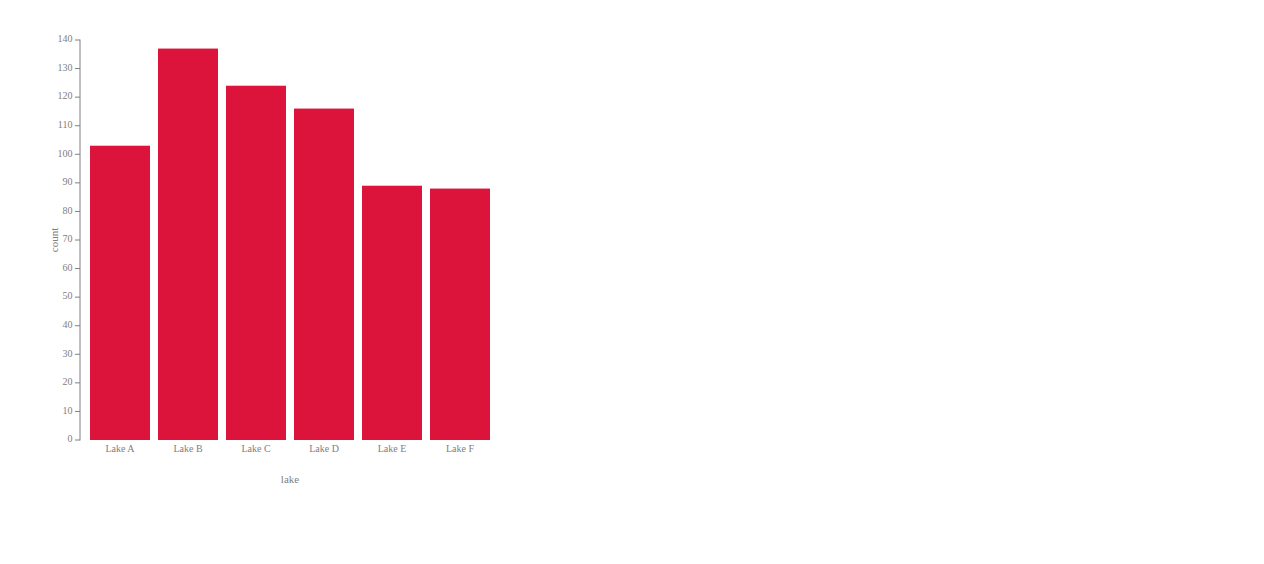
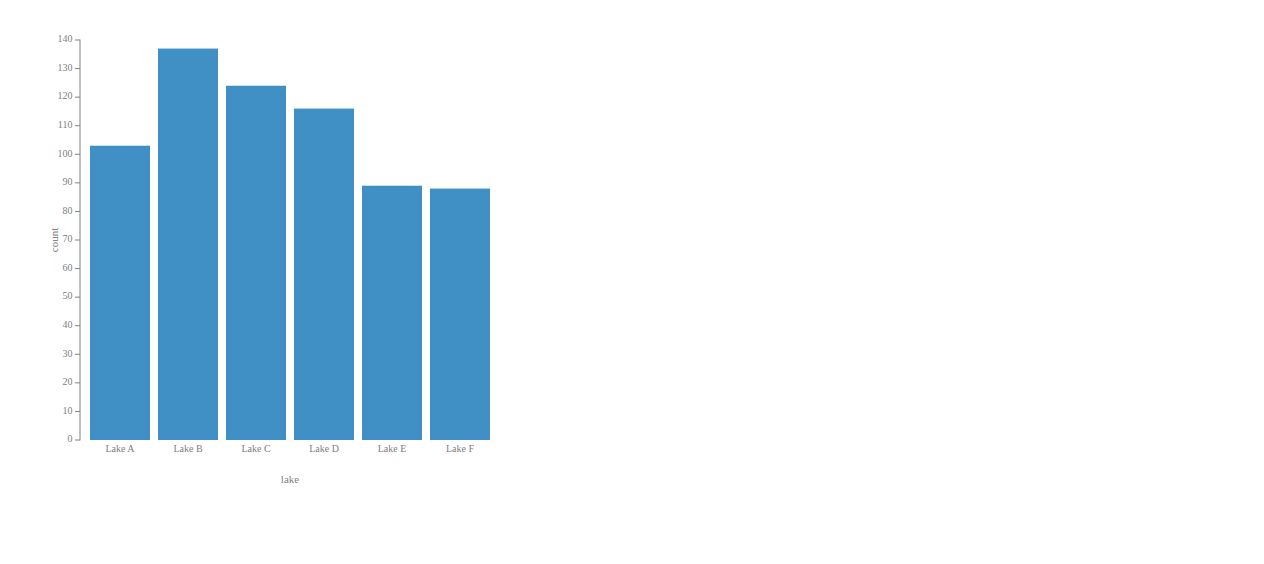
Accept 1 visual diff(s)

Changed region(s): [[0.0617, 0.0603, 0.4011, 0.7837]]

diff --git a/dom/forward-syntax-v3/bar/basic--default.html b/dom/forward-syntax-v3/bar/basic--default.html
@@ -1,4 +1,4 @@
-<svg height="560" width="590" xmlns="http://www.w3.org/2000/svg"><g transform="scale(1, -1) translate(70, -440)"><g transform="translate(0, 0) scale(1, 1)"><g transform="translate(0, 0)"><rect fill="crimson" height="294.2857" opacity="1" rx="0" ry="0" stroke="crimson" stroke-width="0" transform="scale(1, -1)" width="60" x="0" y="-294.2857"></rect><rect fill="crimson" height="391.4286" opacity="1" rx="0" ry="0" stroke="crimson" stroke-width="0" transform="scale(1, -1)" width="60" x="68" y="-391.4286"></rect><rect fill="crimson" height="354.2857" opacity="1" rx="0" ry="0" stroke="crimson" stroke-width="0" transform="scale(1, -1)" width="60" x="136" y="-354.2857"></rect><rect fill="crimson" height="331.4286" opacity="1" rx="0" ry="0" stroke="crimson" stroke-width="0" transform="scale(1, -1)" width="60" x="204" y="-331.4286"></rect><rect fill="crimson" height="254.2857" opacity="1" rx="0" ry="0" stroke="crimson" stroke-width="0" transform="scale(1, -1)" width="60" x="272" y="-254.2857"></rect><rect fill="crimson" height="251.4286" opacity="1" rx="0" ry="0" stroke="crimson" stroke-width="0" transform="scale(1, -1)" width="60" x="340" y="-251.4286"></rect></g></g><g><g><line stroke="gray" stroke-width="1" x1="-10" x2="-10" y1="-0.5" y2="400.5"></line><text dominant-baseline="middle" fill="gray" font-size="10" text-anchor="end" transform="scale(1, -1)" x="-17.5" y="0">0
+<svg height="560" width="590" xmlns="http://www.w3.org/2000/svg"><g transform="scale(1, -1) translate(70, -440)"><g transform="translate(0, 0) scale(1, 1)"><g transform="translate(0, 0)"><rect fill="#4190c5" height="294.2857" opacity="1" rx="0" ry="0" stroke="#4190c5" stroke-width="0" transform="scale(1, -1)" width="60" x="0" y="-294.2857"></rect><rect fill="#4190c5" height="391.4286" opacity="1" rx="0" ry="0" stroke="#4190c5" stroke-width="0" transform="scale(1, -1)" width="60" x="68" y="-391.4286"></rect><rect fill="#4190c5" height="354.2857" opacity="1" rx="0" ry="0" stroke="#4190c5" stroke-width="0" transform="scale(1, -1)" width="60" x="136" y="-354.2857"></rect><rect fill="#4190c5" height="331.4286" opacity="1" rx="0" ry="0" stroke="#4190c5" stroke-width="0" transform="scale(1, -1)" width="60" x="204" y="-331.4286"></rect><rect fill="#4190c5" height="254.2857" opacity="1" rx="0" ry="0" stroke="#4190c5" stroke-width="0" transform="scale(1, -1)" width="60" x="272" y="-254.2857"></rect><rect fill="#4190c5" height="251.4286" opacity="1" rx="0" ry="0" stroke="#4190c5" stroke-width="0" transform="scale(1, -1)" width="60" x="340" y="-251.4286"></rect></g></g><g><g><line stroke="gray" stroke-width="1" x1="-10" x2="-10" y1="-0.5" y2="400.5"></line><text dominant-baseline="middle" fill="gray" font-size="10" text-anchor="end" transform="scale(1, -1)" x="-17.5" y="0">0
 </text><line stroke="gray" x1="-15" x2="-10" y1="0" y2="0"></line><text dominant-baseline="middle" fill="gray" font-size="10" text-anchor="end" transform="scale(1, -1)" x="-17.5" y="-28.5714">10
 </text><line stroke="gray" x1="-15" x2="-10" y1="28.5714" y2="28.5714"></line><text dominant-baseline="middle" fill="gray" font-size="10" text-anchor="end" transform="scale(1, -1)" x="-17.5" y="-57.1429">20
 </text><line stroke="gray" x1="-15" x2="-10" y1="57.1429" y2="57.1429"></line><text dominant-baseline="middle" fill="gray" font-size="10" text-anchor="end" transform="scale(1, -1)" x="-17.5" y="-85.7143">30
